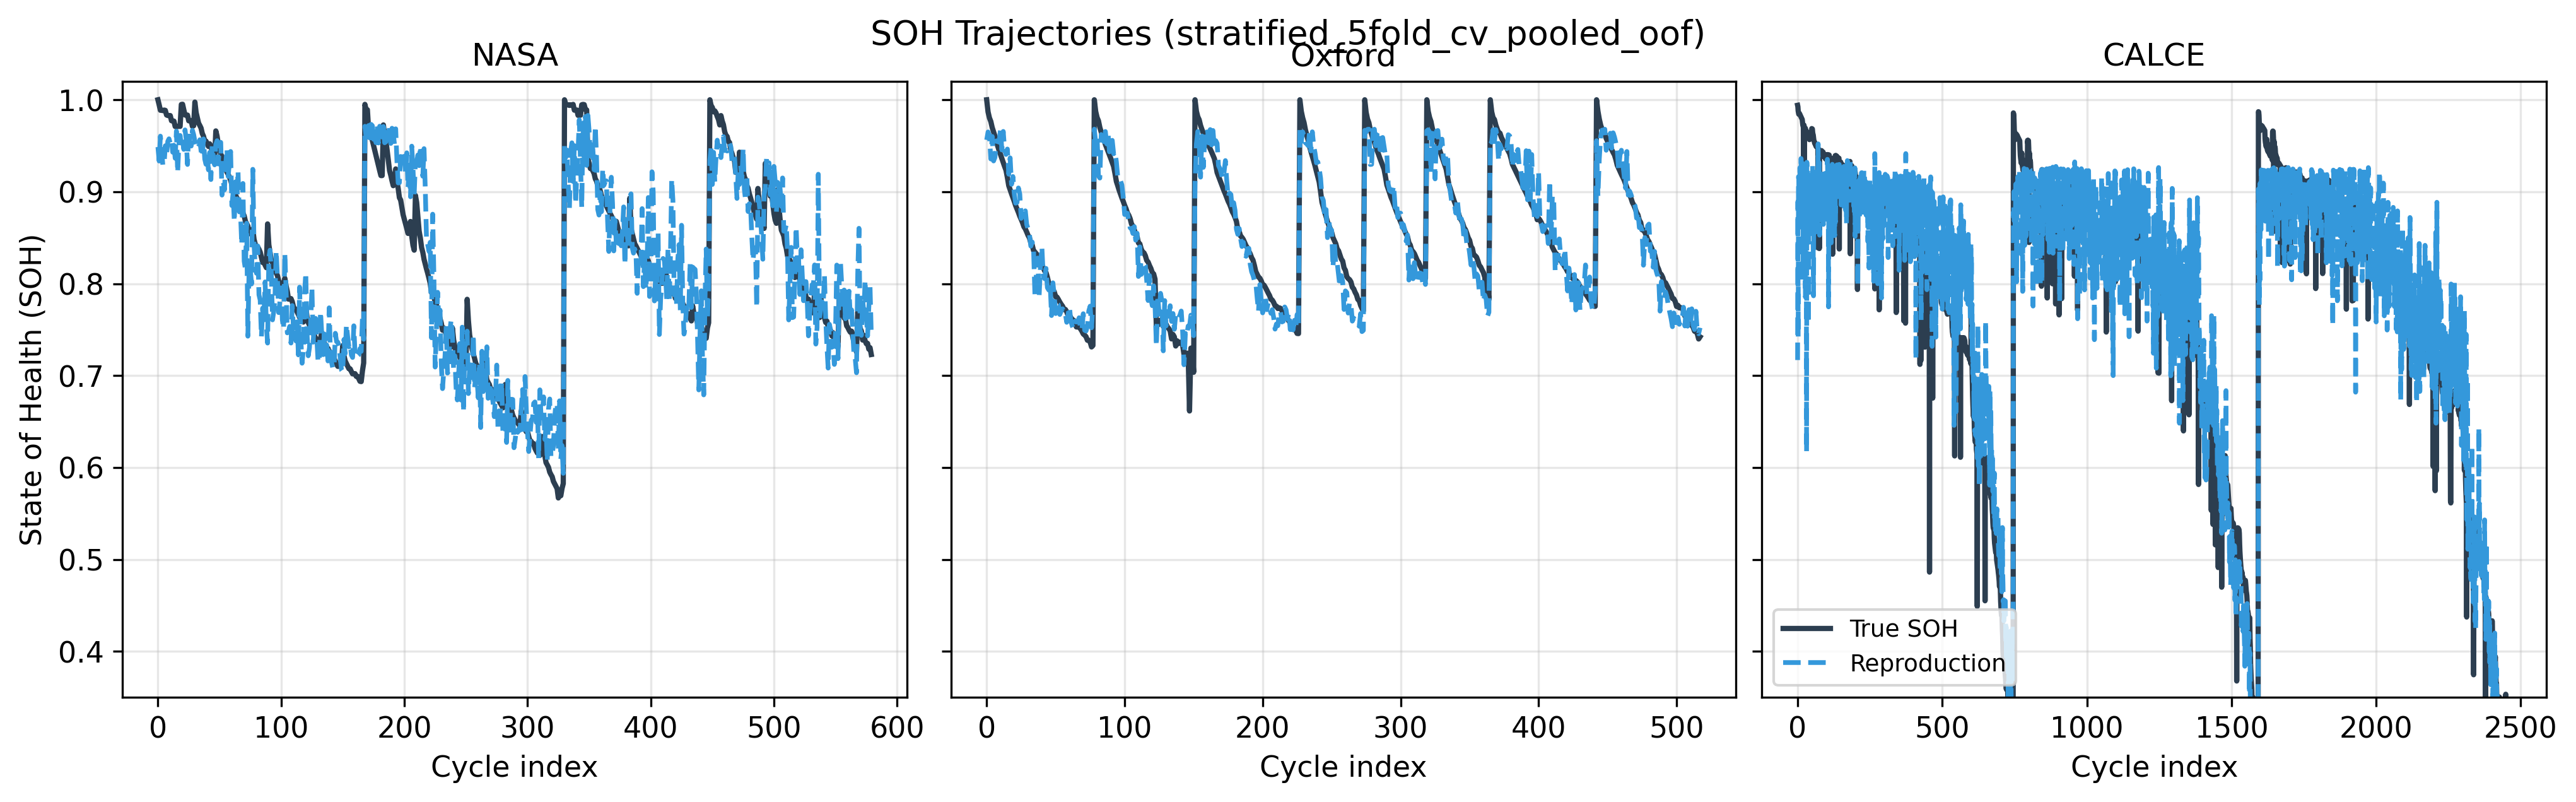
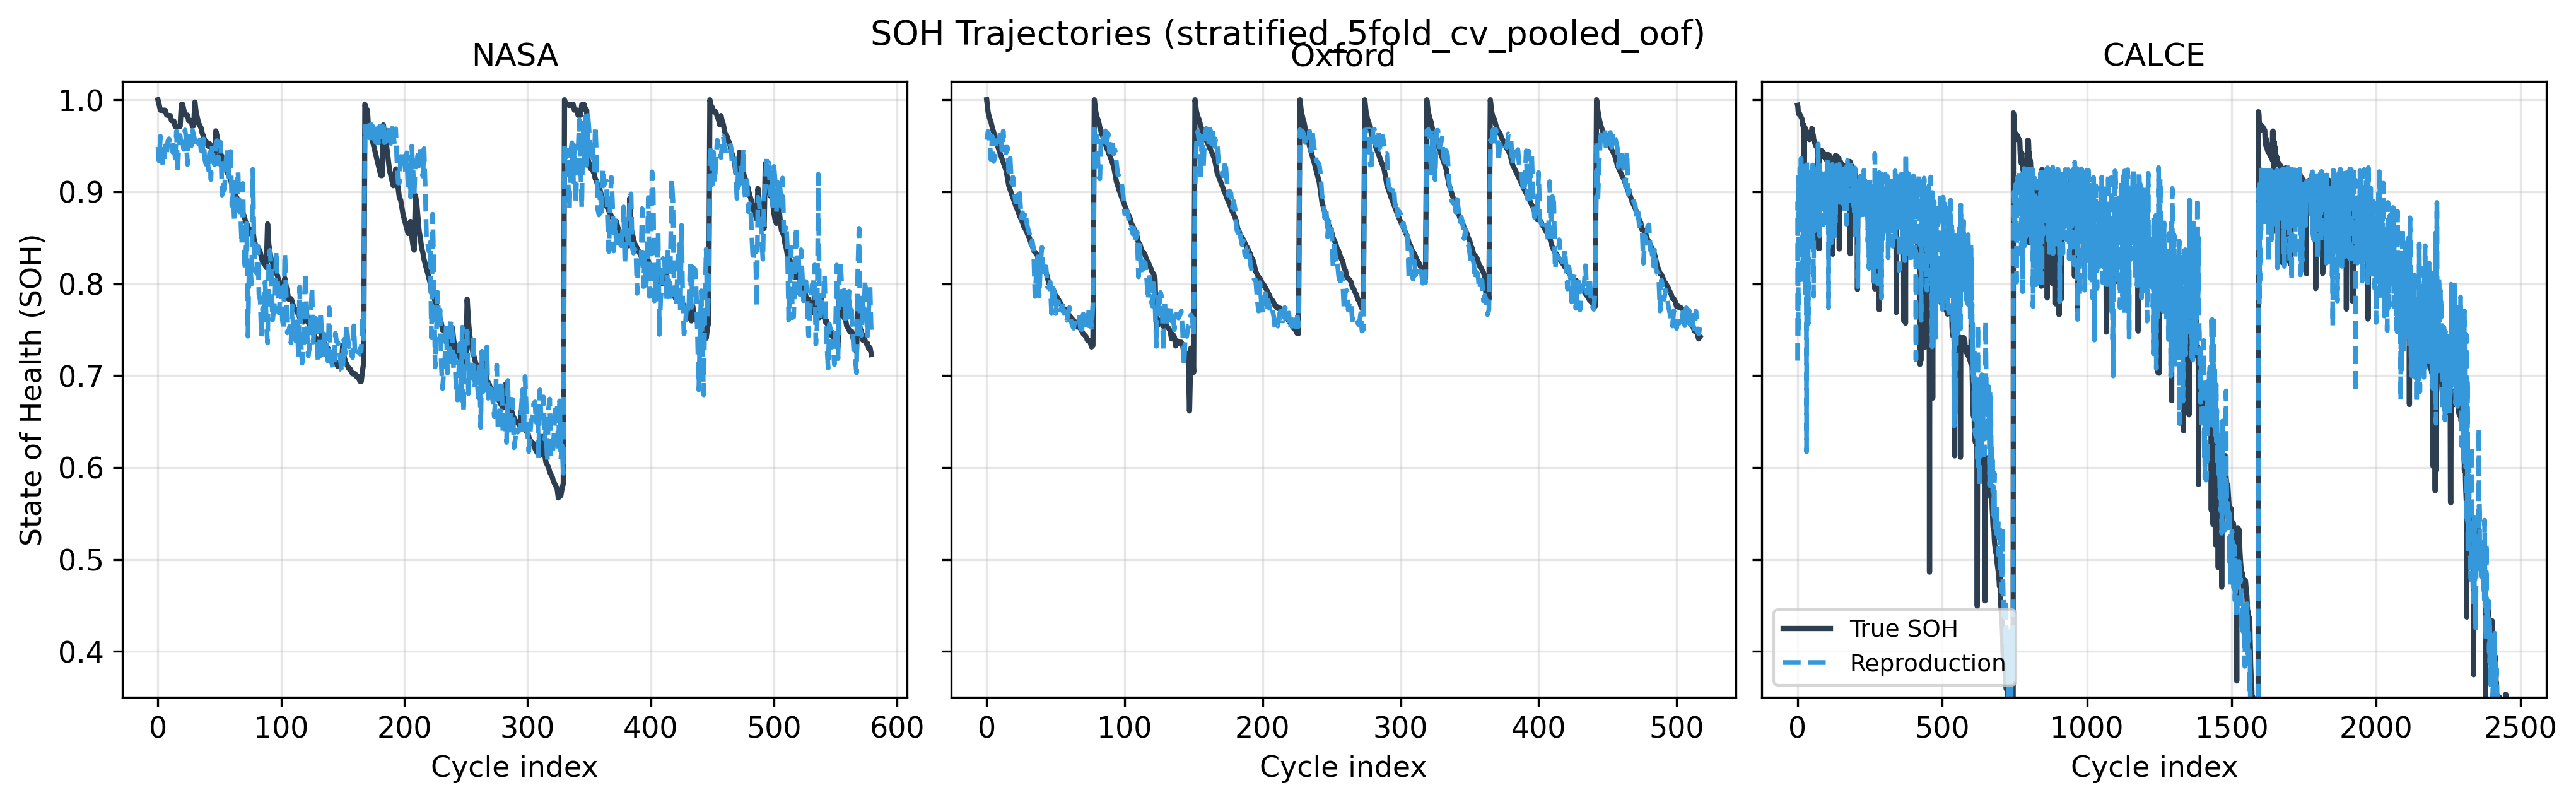
Sync verified SOH results, figures, and RESULTS.md to GitHub.

diff --git a/docs/RESULTS.md b/docs/RESULTS.md
@@ -1,7 +1,7 @@
 # Paper Reproduction — Results
 
 **Reference:** Rahman *et al.*, *Scientific Reports* (2026) — [DOI 10.1038/s41598-026-39911-8](https://doi.org/10.1038/s41598-026-39911-8)  
-**Last synced:** 2026-06-04 23:21 UTC  
+**Last synced:** 2026-06-28 11:23 UTC  
 **Source:** `results/paper_experiment_report.json` · `results/summary.json`  
 **Protocol:** Stratified 5-fold CV, 5 independent runs (seeds 42–46), mean pooled OOF SOH RMSE
 
@@ -9,9 +9,19 @@
 
 | Dataset | Mean RMSE (± std over 5 runs) | R² | Paper Table 4 (NASA only) |
 |:---|:---:|:---:|:---:|
-| NASA | **0.0717 ± 0.0096** | 0.5539 | Hybrid **0.021** |
+| NASA | **0.0417 ± 0.0023** | — | Hybrid **0.021** |
 | Oxford | **0.0215 ± 0.0045** | — | — |
 | CALCE | **0.0544 ± 0.0147** | — | — |
+
+### Per independent run (pooled OOF RMSE)
+
+| Run | NASA | Oxford | CALCE |
+|:---:|:---:|:---:|:---:|
+| 1 | 0.0404 | 0.0268 | 0.0502 |
+| 2 | 0.0392 | 0.0154 | 0.0454 |
+| 3 | 0.0428 | 0.0183 | 0.0463 |
+| 4 | 0.0407 | 0.0266 | 0.0835 |
+| 5 | 0.0456 | 0.0205 | 0.0464 |
 
 ## Discussion
 